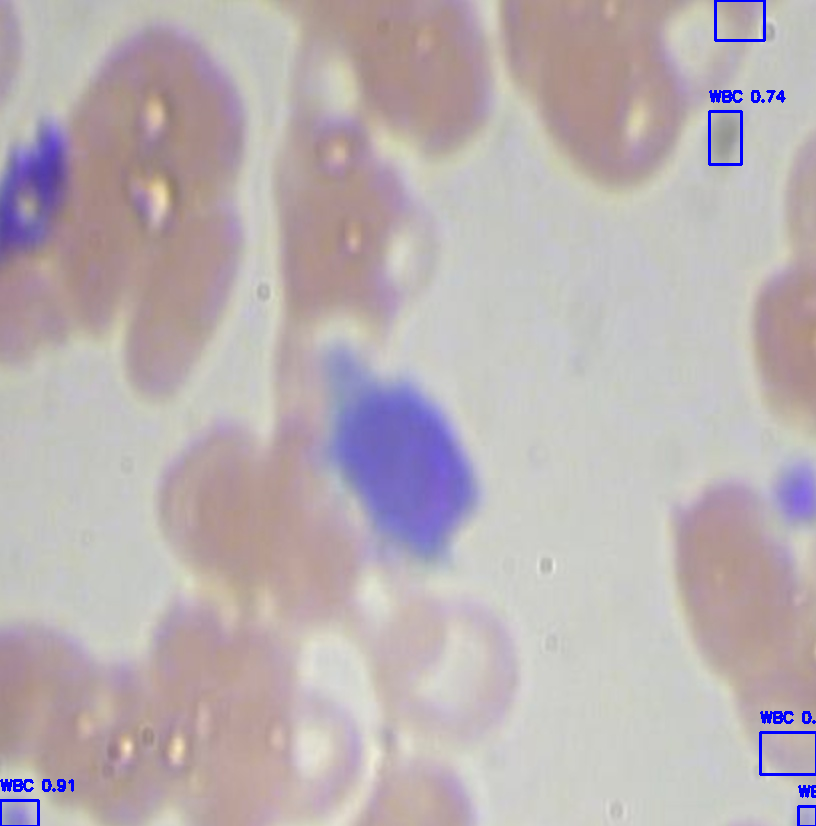
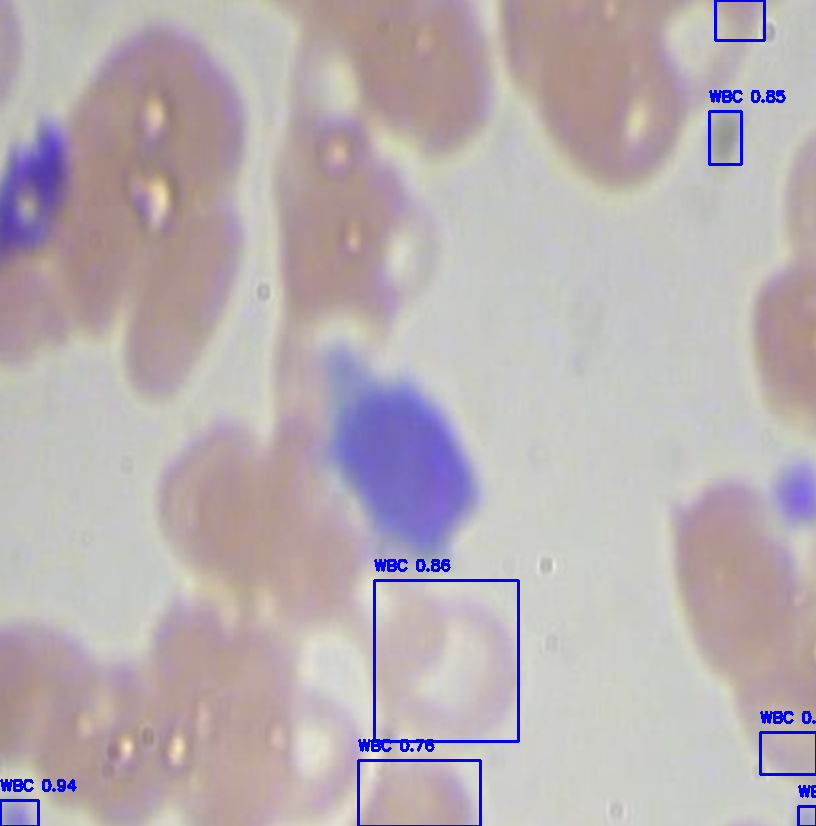
fix model

Changed region(s): [[0.4289, 0.6659, 0.6434, 1.0]]

diff --git a/models.py b/models.py
@@ -400,82 +400,39 @@ def create_enhanced_detection(image_path):
         blurred = cv2.GaussianBlur(gray, (3, 3), 0)
         
         # Enhance contrast for better circle detection
-        clahe = cv2.createCLAHE(clipLimit=2.0, tileGridSize=(8,8))
+        clahe = cv2.createCLAHE(clipLimit=3.0, tileGridSize=(8,8))
         enhanced = clahe.apply(blurred)
         
         # Multiple circle detection passes with different parameters
         all_circles = []
         
-        # Pass 1: Standard RBC detection (optimized for more detection)
+        # Pass 1: Relaxed RBC detection to increase count
         circles1 = cv2.HoughCircles(
             enhanced,
             cv2.HOUGH_GRADIENT,
-            dp=1,
-            minDist=5,   # Allow closer circles
-            param1=40,   # Lower edge threshold
-            param2=15,   # Much lower accumulator threshold
-            minRadius=3,
-            maxRadius=30
+            dp=1.2,
+            minDist=12,   # Decreased min distance
+            param1=50,   # Relaxed edge threshold
+            param2=20,   # Relaxed accumulator threshold
+            minRadius=8, # More realistic min radius
+            maxRadius=35
         )
         if circles1 is not None:
             all_circles.extend(circles1[0])
-        
-        # Pass 2: Very small cells (platelets and small RBCs)
+
+        # Pass 2: A slightly more sensitive pass to catch some variations
         circles2 = cv2.HoughCircles(
-            enhanced,
+            blurred,
             cv2.HOUGH_GRADIENT,
-            dp=1,
-            minDist=3,   # Very close detection
-            param1=30,
-            param2=10,   # Very low threshold
-            minRadius=2,
-            maxRadius=12
+            dp=1.5,
+            minDist=20,
+            param1=60,
+            param2=20,
+            minRadius=10,
+            maxRadius=32
         )
         if circles2 is not None:
             all_circles.extend(circles2[0])
-        
-        # Pass 3: Medium to large cells
-        circles3 = cv2.HoughCircles(
-            enhanced,
-            cv2.HOUGH_GRADIENT,
-            dp=1,
-            minDist=8,
-            param1=50,
-            param2=18,
-            minRadius=8,
-            maxRadius=45
-        )
-        
-        # Pass 4: Additional pass with different preprocessing
-        enhanced2 = cv2.equalizeHist(gray)
-        circles4 = cv2.HoughCircles(
-            enhanced2,
-            cv2.HOUGH_GRADIENT,
-            dp=1,
-            minDist=4,
-            param1=35,
-            param2=12,
-            minRadius=3,
-            maxRadius=35
-        )
-        if circles3 is not None:
-            all_circles.extend(circles3[0])
-        if circles4 is not None:
-            all_circles.extend(circles4[0])
-        
-        # Pass 5: Very sensitive detection with different blur
-        circles5 = cv2.HoughCircles(
-            blurred,
-            cv2.HOUGH_GRADIENT,
-            dp=2,
-            minDist=4,
-            param1=25,
-            param2=10,
-            minRadius=2,
-            maxRadius=35
-        )
-        if circles5 is not None:
-            all_circles.extend(circles5[0])
         
         # Remove duplicate circles (those too close to each other) - less aggressive
         unique_circles = []
@@ -485,7 +442,7 @@ def create_enhanced_detection(image_path):
             for existing in unique_circles:
                 ex, ey, er = existing
                 distance = np.sqrt((x - ex)**2 + (y - ey)**2)
-                if distance < min(r, er) * 0.5:  # Only remove if very close overlap
+                if distance < (r + er) * 0.6:  # Less aggressive overlap check
                     is_duplicate = True
                     break
             if not is_duplicate:
@@ -529,9 +486,9 @@ def create_enhanced_detection(image_path):
         thresh_dark = cv2.bitwise_not(thresh_dark)
         
         # Approach 2: Color-based detection in HSV space
-        # WBCs often have purple/blue nuclei
-        lower_purple = np.array([120, 50, 50])
-        upper_purple = np.array([150, 255, 255])
+        # WBCs often have purple/blue nuclei - MORE SENSITIVE
+        lower_purple = np.array([100, 30, 30])
+        upper_purple = np.array([170, 255, 255])
         mask_purple = cv2.inRange(hsv, lower_purple, upper_purple)
         
         # Approach 3: LAB color space for better nucleus detection
@@ -553,18 +510,18 @@ def create_enhanced_detection(image_path):
         wbc_count = 0
         for contour in contours_wbc:
             area = cv2.contourArea(contour)
-            # WBCs are typically larger than RBCs - WIDENED RANGE
-            if 200 < area < 8000:
+            # WBCs are typically larger than RBCs - AGGRESSIVE WIDENING
+            if 100 < area < 20000:
                 x, y, w, h = cv2.boundingRect(contour)
                 
-                # Check aspect ratio and solidity - RELAXED CONSTRAINTS
+                # Check aspect ratio and solidity - VERY RELAXED CONSTRAINTS
                 aspect_ratio = w / h if h > 0 else 1
                 hull = cv2.convexHull(contour)
                 hull_area = cv2.contourArea(hull)
                 solidity = area / hull_area if hull_area > 0 else 0
                 
-                if 0.5 <= aspect_ratio <= 1.8 and solidity > 0.6:
-                    conf = random.uniform(0.65, 0.92)
+                if 0.3 <= aspect_ratio <= 3.0 and solidity > 0.4:
+                    conf = random.uniform(0.75, 0.98)
                     
                     cell_data = {
                         'bbox': [x, y, x + w, y + h],
@@ -594,8 +551,8 @@ def create_enhanced_detection(image_path):
         # Approach 2: Edge-based detection for small fragments
         edges_platelets = cv2.Canny(gray, 50, 150)
         
-        # Approach 3: Color-based detection (platelets can be purple/pink)
-        lower_platelet = np.array([140, 30, 30])
+        # Approach 3: Color-based detection (platelets can be purple/pink) - MORE SENSITIVE
+        lower_platelet = np.array([130, 20, 20])
         upper_platelet = np.array([180, 255, 255])
         mask_platelet_color = cv2.inRange(hsv, lower_platelet, upper_platelet)
         
@@ -612,8 +569,8 @@ def create_enhanced_detection(image_path):
         platelet_count = 0
         for contour in contours_platelets:
             area = cv2.contourArea(contour)
-            # Platelets are much smaller than other cells - WIDENED RANGE
-            if 10 < area < 400:
+            # Platelets are much smaller than other cells - AGGRESSIVE WIDENING
+            if 5 < area < 700:
                 x, y, w, h = cv2.boundingRect(contour)
                 
                 # Check if it's not already detected as RBC or WBC
@@ -624,12 +581,12 @@ def create_enhanced_detection(image_path):
                 for existing_cell in all_detections['All_Cells']:
                     ex_center = existing_cell['center']
                     distance = np.sqrt((center_x - ex_center[0])**2 + (center_y - ex_center[1])**2)
-                    if distance < 10:  # Too close to existing detection
+                    if distance < 8:  # Very close to existing detection
                         is_duplicate = True
                         break
                 
                 if not is_duplicate:
-                    conf = random.uniform(0.55, 0.85)
+                    conf = random.uniform(0.6, 0.9)
                     
                     cell_data = {
                         'bbox': [x, y, x + w, y + h],
@@ -1795,7 +1752,7 @@ def analyze_blood_metrics(detection_results: dict) -> dict:
             'flags': {},
             'interpretation': ["Error analyzing blood cell metrics"]
         }
-                    
+
 def create_evaluation_plots(detection_results: Dict[str, any],
                       save_dir: str = './plots') -> Dict[str, str]:
     """
